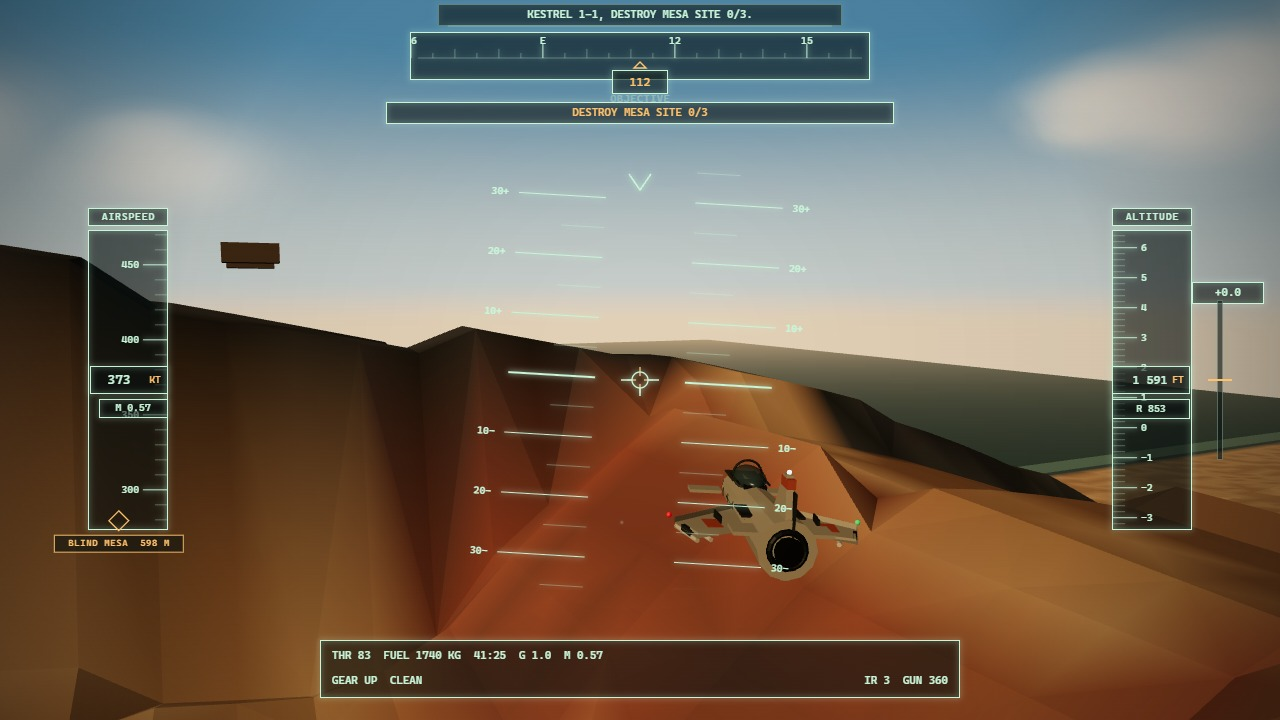
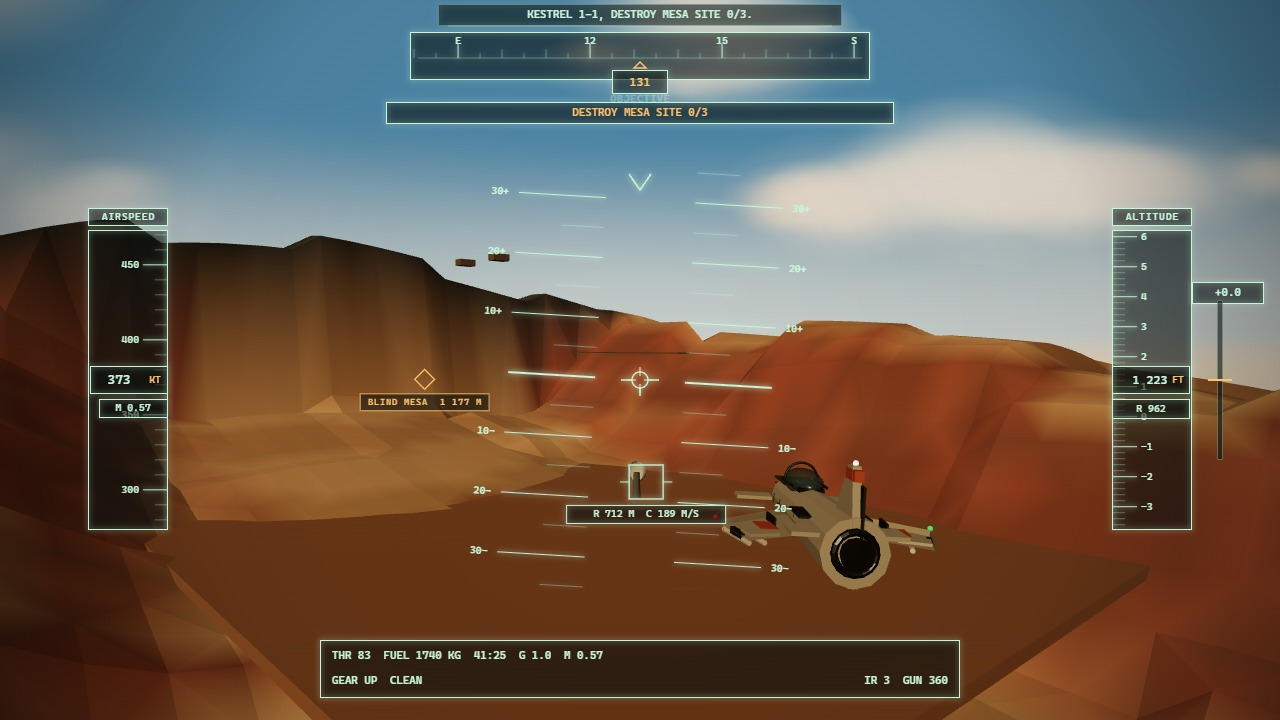
Plant the mesa props on their own ground and rebuild the strike shot
The radar-site slab and buildings hung over the mesa edge, and the strike
framed a wall instead of the target. Run the shot in on the site itself.

🤖 Generated with Codebuff

diff --git a/game/src/shots.js b/game/src/shots.js
@@ -67,12 +67,16 @@ export function configureShot(name, app) {
     app.shotTarget = { position: new THREE.Vector3(thresholdX, AIRBASE.y + 2, AIRBASE.z) };
   } else if (name === 'strike') {
     missions.begin(MISSIONS[2], state, enemies);
-    const x = 1900, z = 640, y = terrain.heightAt(x, z) + 260;
-    const heading = Math.atan2(2270 - x, -(790 - z));
+    // Run in on the mesa radar site from 700 m out, the target dead ahead.
+    const site = terrain.radar.position;
+    const bearing = new THREE.Vector3(-0.75, 0, -0.66).normalize();
+    const x = site.x + bearing.x * 700, z = site.z + bearing.z * 700;
+    const y = Math.max(terrain.heightAt(x, z) + 170, site.y + 130);
+    const heading = Math.atan2(site.x - x, -(site.z - z));
     pose(state, x, y, z, heading, 0, -0.06, 192);
     configureSortie(state, terrain, { missionTime: 18, fuel: 1740, throttle: 0.83, missiles: 3, bombs: 2, gunRounds: 360, weapon: 'bomb', warnings: ['MISSILE INBOUND'] });
-    state.agl = 260; weapons.forceWeapon('bomb');
-    setCamera(camera, state, 46, 13, 10, 110, 48);
+    state.agl = 170; weapons.forceWeapon('bomb');
+    setCamera(camera, state, 40, 9, 10, 520, 50);
     app.shotTarget = terrain.radar;
     effects.smoke(new THREE.Vector3(2250, terrain.heightAt(2250, 790) + 1.5, 790), 2.8, 3);
   } else {
@@ -84,7 +88,7 @@ export function configureShot(name, app) {
     state.agl = 460; state.controls.roll = -0.48;
     const bomber = enemies.targets()[0];
     if (bomber) {
-      bomber.position.set(x + 150, state.position.y - 22, z + 26); bomber.health = 0.52; bomber.smoke = 1;
+      bomber.position.set(x + 300, state.position.y + 18, z + 130); bomber.health = 0.52; bomber.smoke = 1;
       for (let i = 0; i < 9; i++) effects.smoke(bomber.position.clone().add(new THREE.Vector3(18 + i * 18, 2 + i * 3, 5)), 13 + i, 7 - i * 0.4);
       const right = new THREE.Vector3(1, 0, 0).applyQuaternion(state.orientation);
       const forward = forwardOf(state);

diff --git a/game/src/terrain.js b/game/src/terrain.js
@@ -185,8 +185,13 @@ function landmarks(scene, random) {
   const radar = new THREE.Group(); radar.position.set(mx - 180, my + 18, mz - 120); scene.add(radar);
   const dish = new THREE.Mesh(new THREE.SphereGeometry(10, 12, 7, 0, Math.PI * 2, 0, Math.PI * 0.52), new THREE.MeshStandardMaterial({ color: 0xb8b7ac, side: THREE.DoubleSide })); dish.rotation.x = Math.PI / 2; dish.position.y = 20; radar.add(dish);
   const mast = new THREE.Mesh(new THREE.CylinderGeometry(3, 4, 24, 6), new THREE.MeshStandardMaterial({ color: 0x595b58 })); mast.position.y = 7; radar.add(mast);
-  box(scene, mx + 220, my + 6, mz + 190, 320, 1.5, 24, 0x554c3e);
-  for (let i = 0; i < 4; i++) box(scene, mx + 480 + (i % 2) * 90, my + 7, mz - 150 + Math.floor(i / 2) * 110, 54, 12, 26, 0x676254);
+  // Each prop sits on the ground under itself, so none hangs over the mesa edge.
+  const slabX = mx + 220, slabZ = mz + 190;
+  box(scene, slabX, baseHeight(slabX, slabZ) + 1.5, slabZ, 320, 1.5, 24, 0x554c3e);
+  for (let i = 0; i < 4; i++) {
+    const bx = mx + 480 + (i % 2) * 90, bz = mz - 150 + Math.floor(i / 2) * 110;
+    box(scene, bx, baseHeight(bx, bz) + 6, bz, 54, 12, 26, 0x676254);
+  }
   const sam = new THREE.Group(); sam.position.set(mx + 520, my + 10, mz - 205); scene.add(sam);
   const base = new THREE.Mesh(new THREE.CylinderGeometry(13, 16, 12, 8), new THREE.MeshStandardMaterial({ color: 0x52604f })); sam.add(base);
   const tube = new THREE.Mesh(new THREE.CylinderGeometry(4, 5, 52, 7), new THREE.MeshStandardMaterial({ color: 0x616b59 })); tube.rotation.z = -0.72; tube.position.set(12, 17, 0); sam.add(tube);
